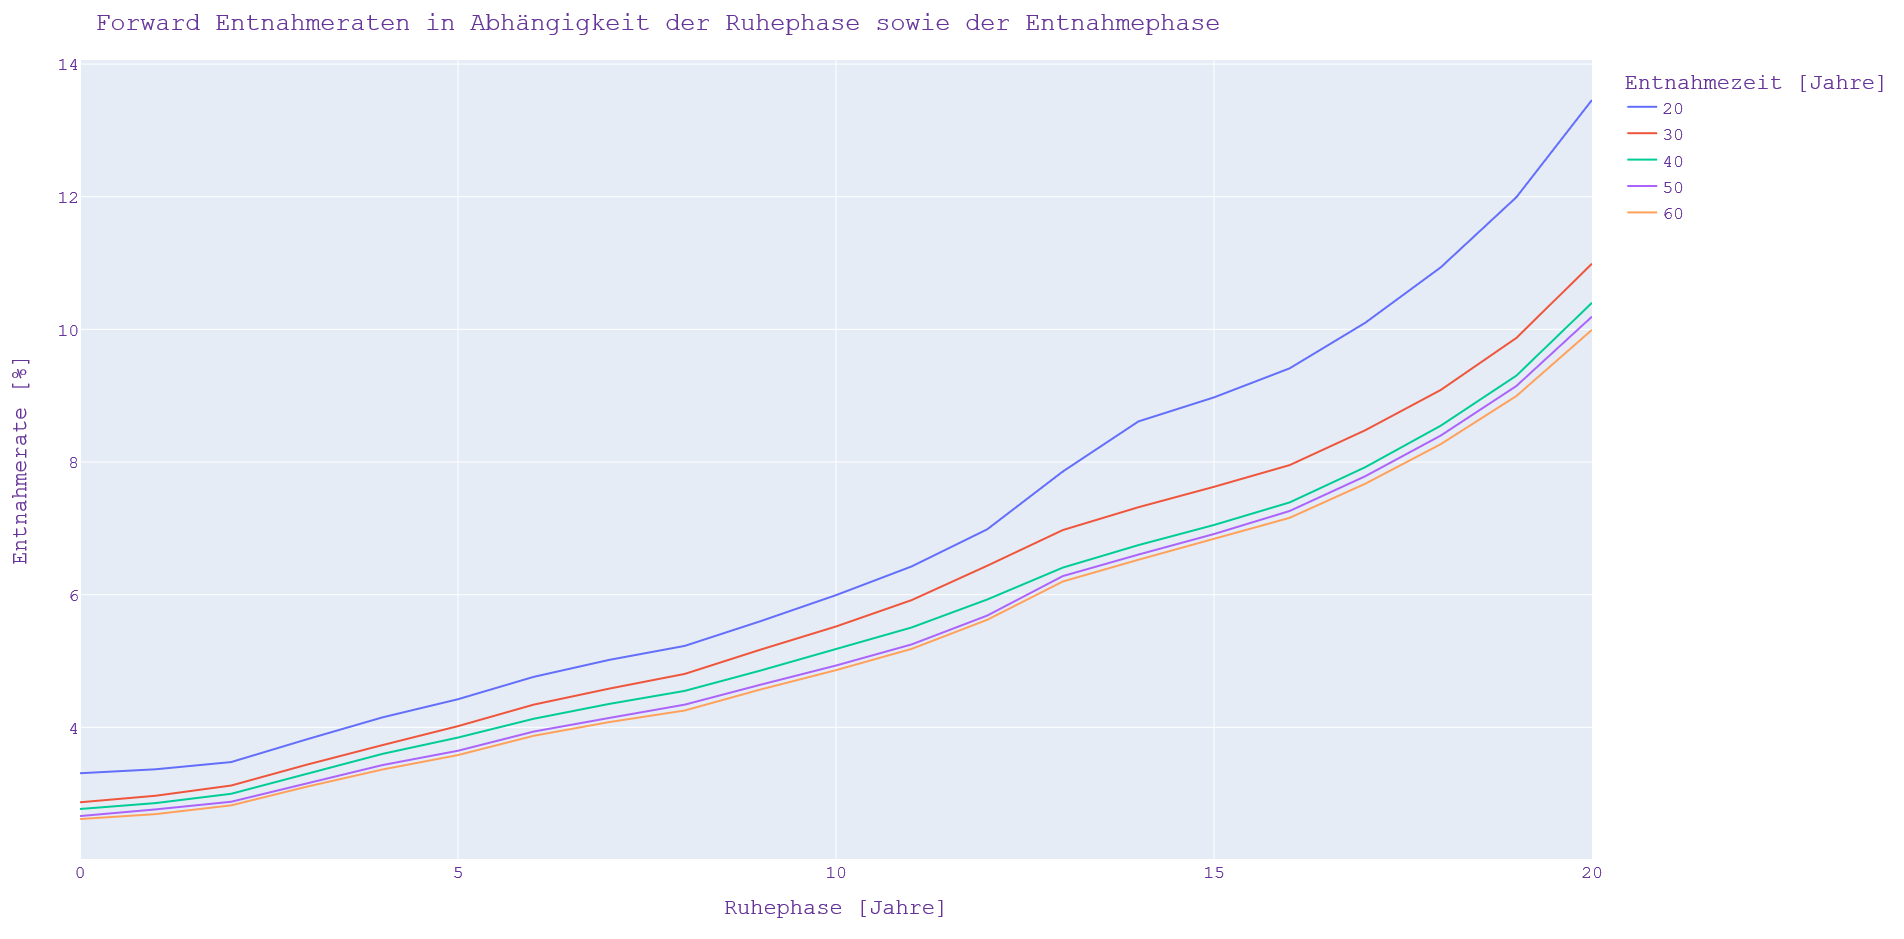
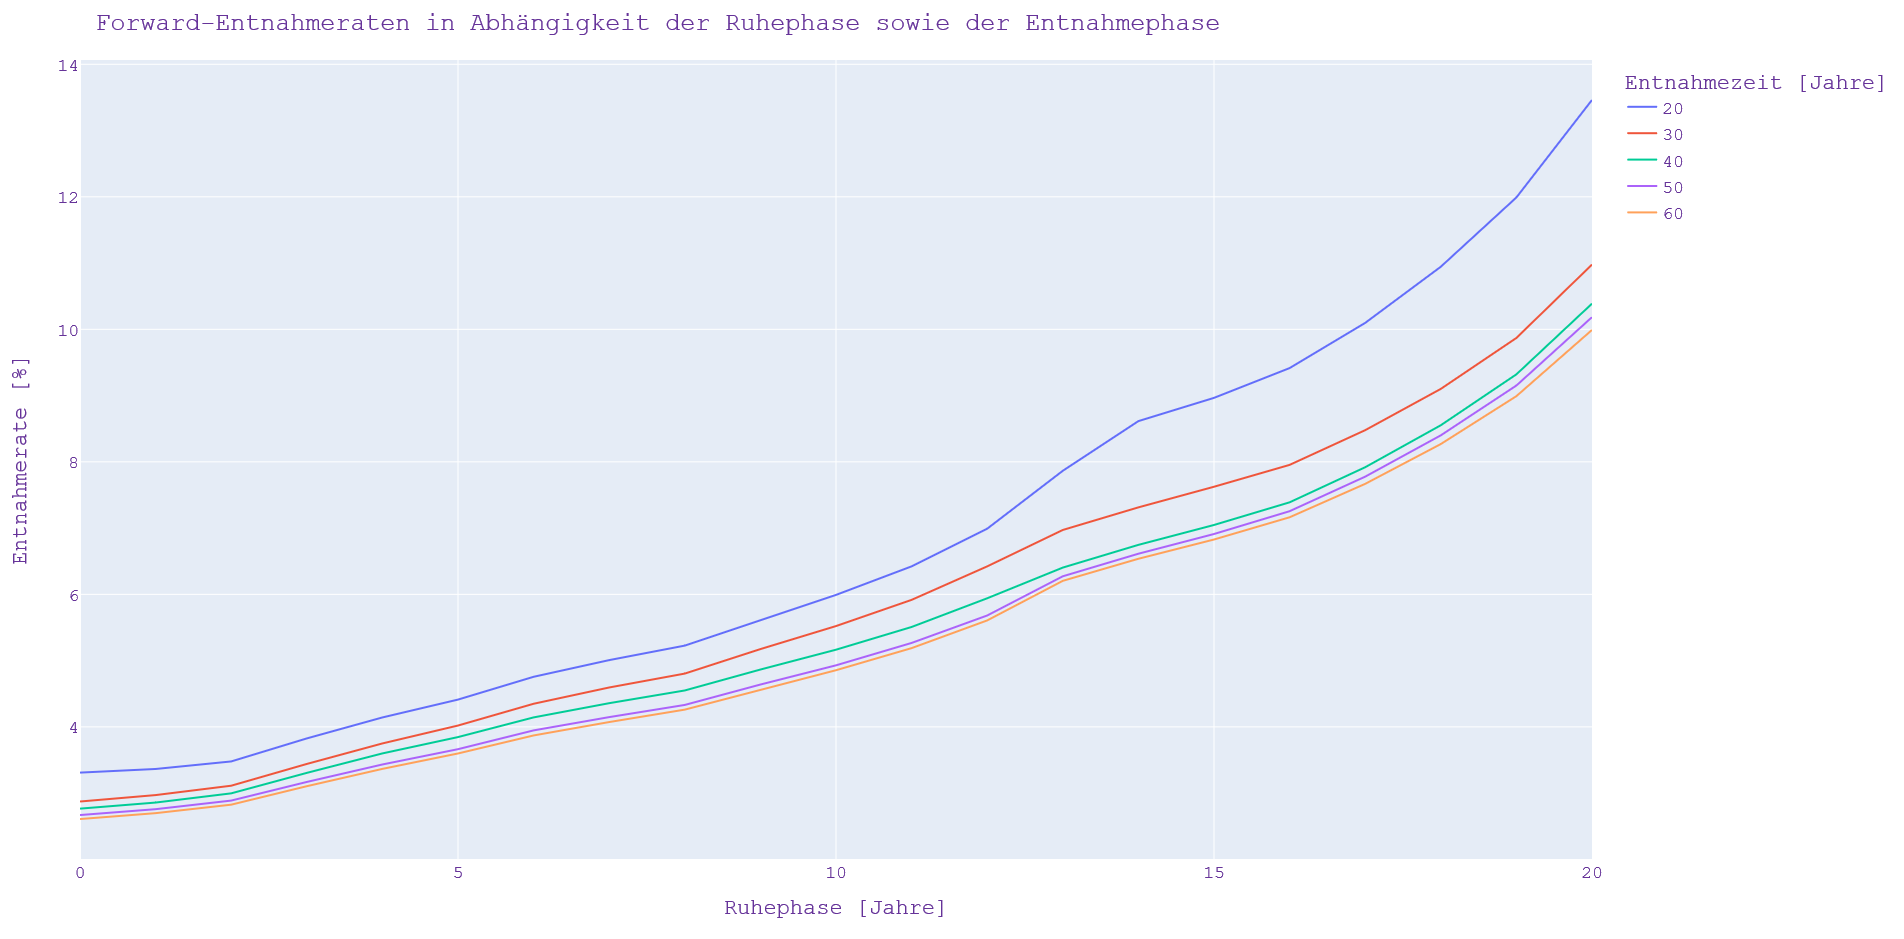
Wachstum Forward Entnahmerate

diff --git a/ForwardEntnahmerate.py b/ForwardEntnahmerate.py
@@ -15,6 +15,7 @@ from tabulate import tabulate
 import multiprocessing
 from multiprocessing import Process
 
+# Funktion zur Optmierung der Entnahmerate
 def optimize(s, probability, loBound, hiBound):
     """ Optimiere auf die max. mögliche Entnahme bei einer vorgegebenen Fehlerquote
 
@@ -24,7 +25,7 @@ def optimize(s, probability, loBound, hiBound):
 
     n_ret_months = s.simulation['n_ret_years'] * 12
 
-    accuracy = 0.02     # Genauigkeit der Optimierung
+    accuracy = 0.005     # Genauigkeit der Optimierung
 
     # Vorbereitung der Optimierung
     deltaWidthdrawal = (hiBound - loBound) / 2
@@ -60,8 +61,8 @@ def optimize(s, probability, loBound, hiBound):
 
     return percWidthdrawal
 
-
-def func1(DauerEntnahme, send_end):
+# Funktion zur Berechnung der Forward Entnahmerate
+def forward(DauerEntnahme, send_end):
 
     # Lesen monatliche S&P500 Daten
     RETURN_FILE = 'real_return_df.pickle'
@@ -120,7 +121,7 @@ if __name__ == "__main__":
 
     # Starte die einzelnen Job's
     for phase in Entnahmephase:
-        p = Process(target=func1, args=(phase, send_end))
+        p = Process(target=forward, args=(phase, send_end))
         pipe_list.append(recv_end)
         jobs.append(p)
         p.start()
@@ -131,24 +132,43 @@ if __name__ == "__main__":
     print("Fertig!")
     print('\nSimulationsdauer: %5.2f sec.' % (time.time() - starttime))
 
-    # Ergebnisse Zusammensammeln:
+    # Ergebnisse Zusammenstellen:
     df = pd.DataFrame(columns=Entnahmephase, index=Ruhephasen)
 
     for i, x in enumerate(pipe_list):
         vector = x.recv()
         df.iloc[:, i] = vector
 
-
-    print('\nErgebnis: Forward Entnahmeraten in Abhängigkeit der Ruhephase (Zeile) sowie der Entnahmephase (Spalte):')
+    print('\nErgebnis: Forward-Entnahmeraten in Abhängigkeit der Ruhephase (Zeile) sowie der Entnahmephase (Spalte):')
     print(tabulate(df, headers = 'keys', tablefmt = 'psql'))
     print('\n')
 
-    # Visualisierung der Ergebnisse:
+    # Ergebnis: Wachstum der Entnahmerate
+    df1 = pd.DataFrame(columns=Entnahmephase, index=Ruhephasen)
+    for i, row in enumerate(df.columns):
+        df1.iloc[:, i] = 100 * df.iloc[:, i].diff() / df.iloc[:, i]
+
+    # Visualisierung der Entnahmerate in Abhängigkeit der Ruhephase sowie der Entnahmephase
     fig = px.line(df)
     fig.update_layout(
-        title="Forward Entnahmeraten in Abhängigkeit der Ruhephase sowie der Entnahmephase",
+        title="Forward-Entnahmeraten in Abhängigkeit der Ruhephase sowie der Entnahmephase",
         xaxis_title="Ruhephase [Jahre]",
         yaxis_title="Entnahmerate [%]",
+        legend_title="Entnahmezeit [Jahre]",
+        font=dict(
+            family="Courier New, monospace",
+            size=18,
+            color="RebeccaPurple"
+        )
+    )
+    fig.show()
+
+    # Visualisierung Wachstum Entnahmerate
+    fig = px.line(df1)
+    fig.update_layout(
+        title="Forward-Entnahmeraten: Wachstum Entnahmerate",
+        xaxis_title="Ruhephase [Jahre]",
+        yaxis_title="Wachstum Entnahmerate [%]",
         legend_title="Entnahmezeit [Jahre]",
         font=dict(
             family="Courier New, monospace",

diff --git a/README.md b/README.md
@@ -67,36 +67,40 @@ Ergebnis: Forward Entnahmeraten in Abhängigkeit der Ruhephase (Zeile) sowie der
 +----+----------+----------+----------+----------+---------+
 |    |       20 |       30 |       40 |       50 |      60 |
 |----+----------+----------+----------+----------+---------|
-|  0 |  3.30835 |  2.87036 |  2.76929 |  2.6626  | 2.61768 |
-|  1 |  3.36807 |  2.96898 |  2.85836 |  2.76314 | 2.69207 |
-|  2 |  3.47691 |  3.12324 |  2.99866 |  2.87848 | 2.824   |
-|  3 |  3.81949 |  3.43738 |  3.30118 |  3.15854 | 3.1055  |
-|  4 |  4.15037 |  3.73218 |  3.59998 |  3.43121 | 3.36434 |
-|  5 |  4.42428 |  4.01835 |  3.84651 |  3.64753 | 3.5821  |
-|  6 |  4.76108 |  4.34243 |  4.12933 |  3.93618 | 3.87266 |
-|  7 |  5.0171  |  4.58389 |  4.35353 |  4.14165 | 4.0795  |
-|  8 |  5.22834 |  4.80592 |  4.55004 |  4.34271 | 4.2543  |
-|  9 |  5.59992 |  5.171   |  4.85594 |  4.64229 | 4.57031 |
-| 10 |  5.99338 |  5.52076 |  5.17672 |  4.93207 | 4.86245 |
-| 11 |  6.42589 |  5.91816 |  5.50591 |  5.25002 | 5.18298 |
-| 12 |  6.98547 |  6.43645 |  5.92747 |  5.68508 | 5.62157 |
-| 13 |  7.85704 |  6.97449 |  6.40815 |  6.28035 | 6.19861 |
-| 14 |  8.61201 |  7.31861 |  6.74751 |  6.60467 | 6.5266  |
-| 15 |  8.97479 |  7.62647 |  7.05084 |  6.91443 | 6.83986 |
-| 16 |  9.41228 |  7.95342 |  7.39093 |  7.26171 | 7.15855 |
-| 17 | 10.0989  |  8.47883 |  7.9219  |  7.78563 | 7.67256 |
-| 18 | 10.9359  |  9.08686 |  8.54835 |  8.39948 | 8.2701  |
-| 19 | 11.9926  |  9.87123 |  9.3027  |  9.14663 | 8.99534 |
-| 20 | 13.4588  | 10.991   | 10.4012  | 10.1925  | 9.99393 |
+|  0 |  3.30969 |  2.87329 |  2.76587 |  2.66919 | 2.60876 |
+|  1 |  3.36443 |  2.97058 |  2.85759 |  2.75777 | 2.69784 |
+|  2 |  3.47825 |  3.11197 |  2.9966  |  2.88759 | 2.82575 |
+|  3 |  3.82569 |  3.4404  |  3.3056  |  3.16871 | 3.10459 |
+|  4 |  4.14218 |  3.74985 |  3.59928 |  3.43228 | 3.366   |
+|  5 |  4.41177 |  4.02002 |  3.84583 |  3.66333 | 3.59857 |
+|  6 |  4.75568 |  4.34868 |  4.14281 |  3.94671 | 3.87052 |
+|  7 |  5.00759 |  4.59444 |  4.35755 |  4.14729 | 4.0727  |
+|  8 |  5.22633 |  4.80425 |  4.54951 |  4.33111 | 4.26028 |
+|  9 |  5.61012 |  5.17365 |  4.86527 |  4.6389  | 4.56255 |
+| 10 |  5.99151 |  5.52126 |  5.16462 |  4.92879 | 4.85494 |
+| 11 |  6.4223  |  5.91669 |  5.50751 |  5.26674 | 5.18842 |
+| 12 |  6.9908  |  6.42212 |  5.9407  |  5.68082 | 5.60643 |
+| 13 |  7.86483 |  6.97162 |  6.40393 |  6.2726  | 6.20385 |
+| 14 |  8.61463 |  7.31271 |  6.74695 |  6.61315 | 6.53695 |
+| 15 |  8.96529 |  7.62388 |  7.04701 |  6.91075 | 6.82764 |
+| 16 |  9.41477 |  7.95384 |  7.38888 |  7.25501 | 7.16321 |
+| 17 | 10.097   |  8.47786 |  7.91853 |  7.77644 | 7.66756 |
+| 18 | 10.9444  |  9.10072 |  8.55217 |  8.39966 | 8.26846 |
+| 19 | 11.9901  |  9.86973 |  9.32044 |  9.15176 | 8.99137 |
+| 20 | 13.4617  | 10.9776  | 10.3878  | 10.1836  | 9.99084 |
 +----+----------+----------+----------+----------+---------+
-
-Simulationsdauer: 25646 sec. = ca. 7 Std.
+Simulationsdauer: 30641 sec. = ca. 8 Std.
 ```
 
 Das folgende Bild zeigt die o. g. Entnahmerate grafisch an.
 
 ![ForwardEntnahmerate](docu/ForwardEntnahmerate.png)
 
+An dem o. g. Beispiel erhöht sich die sichere Entnahmerate nach einer Wartezeit von fünf Jahren durchschnittlich um ca. 7% pro Jahr. 
+Dies entspricht in etwa auch der durchschnittlichen realen Rendite des zugrunde liegenden 
+Daten (S&P 500 Total Return 1900-2020).
+
+![ForwardEntnahmerate_1](docu/ForwardEntnahmerate_1.png)
 
 
 ## 3. Berücksichtigung von zukünftigen Assets bei der Rentenplanung
